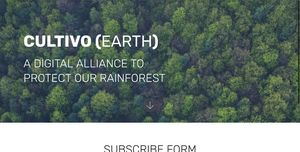
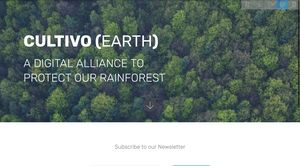
links updated

diff --git a/index.html b/index.html
@@ -48,7 +48,7 @@
     </div>
 </section>
 
-<section class="engine"><a href="https://mobirise.info/n">simple web templates</a></section><section class="mbr-section form3 cid-rkGmMCfe2v" id="form3-3">
+<section class="engine"><a href="https://mobirise.info/r">free bootstrap templates</a></section><section class="mbr-section form3 cid-rkGmMCfe2v" id="form3-3">
 
     
 
@@ -67,7 +67,7 @@
         <div class="row py-2 justify-content-center">
             <div class="col-12 col-lg-6  col-md-8 " data-form-type="formoid">
                 <!---Formbuilder Form--->
[2 lines of base64/hex data omitted]
                     <div class="row">
                         <div hidden="hidden" data-form-alert="" class="alert alert-success col-12">Thanks for filling out the form! Cultivo team will get back to you with updates as soon as possible. Thank you.</div>
                         <div hidden="hidden" data-form-alert-danger="" class="alert alert-danger col-12">
@@ -117,7 +117,7 @@
                     
                     
                     
-                <li class="foot-menu-item mbr-fonts-style display-7"><a class="mbr-bold text-black" href="#" target="_blank">FreeFlowPages</a></li><li class="foot-menu-item mbr-fonts-style display-7"><a class="mbr-bold text-black" href="#" target="_blank">GitHub</a></li><li class="foot-menu-item mbr-fonts-style display-7"><a class="mbr-bold text-black" href="http://www.biolleyfarms.com/" target="_blank">BiolleyFarms</a></li></ul>
+                <li class="foot-menu-item mbr-fonts-style display-7"><a class="mbr-bold text-black" href="https://freeflowpages.com/s/cultivo/" target="_blank">FreeFlowPages</a></li><li class="foot-menu-item mbr-fonts-style display-7"><a class="mbr-bold text-black" href="https://github.com/cultivo" target="_blank">GitHub</a></li><li class="foot-menu-item mbr-fonts-style display-7"><a class="mbr-bold text-black" href="http://www.biolleyfarms.com/" target="_blank">BiolleyFarms</a></li></ul>
             </div>
             
             <div class="row row-copirayt">
